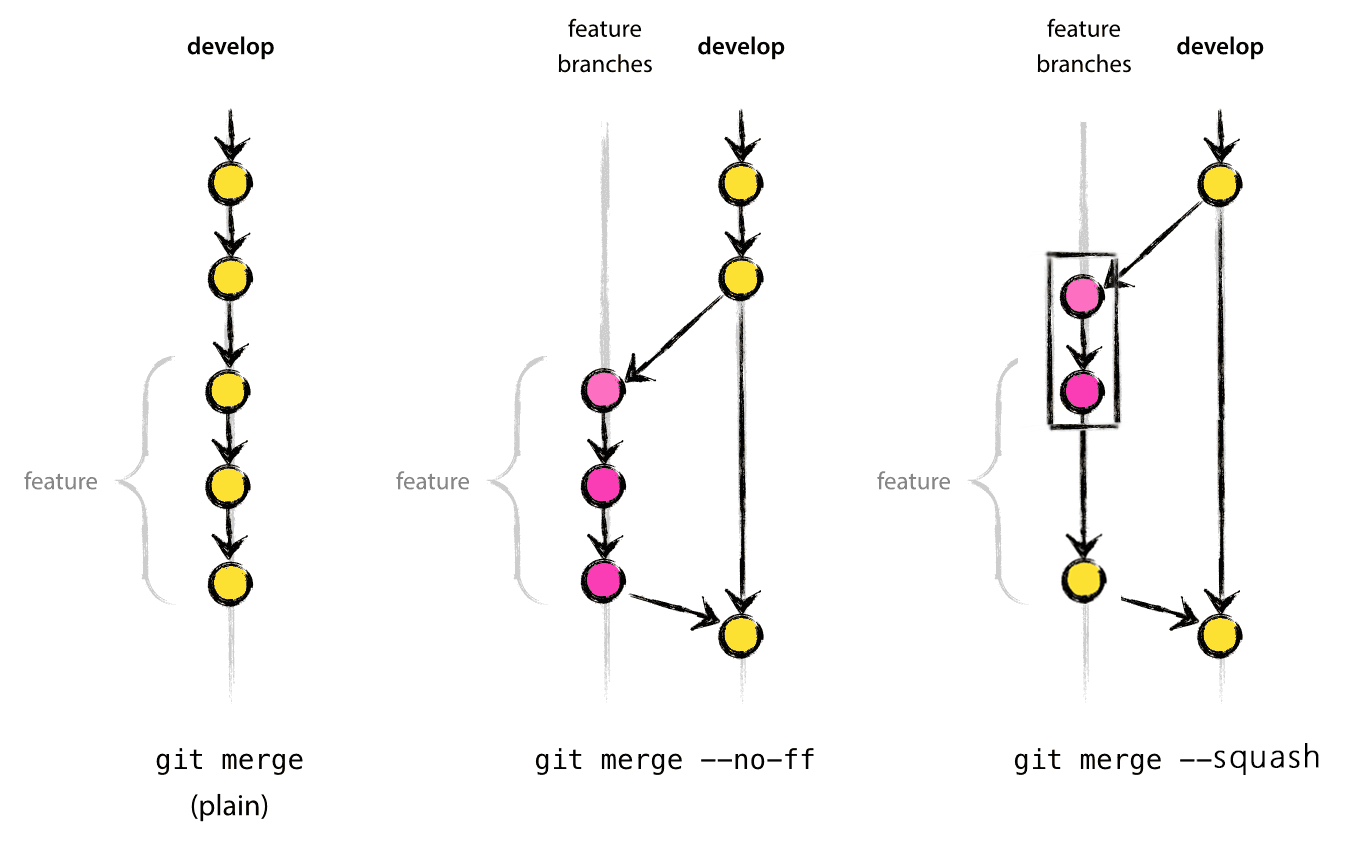
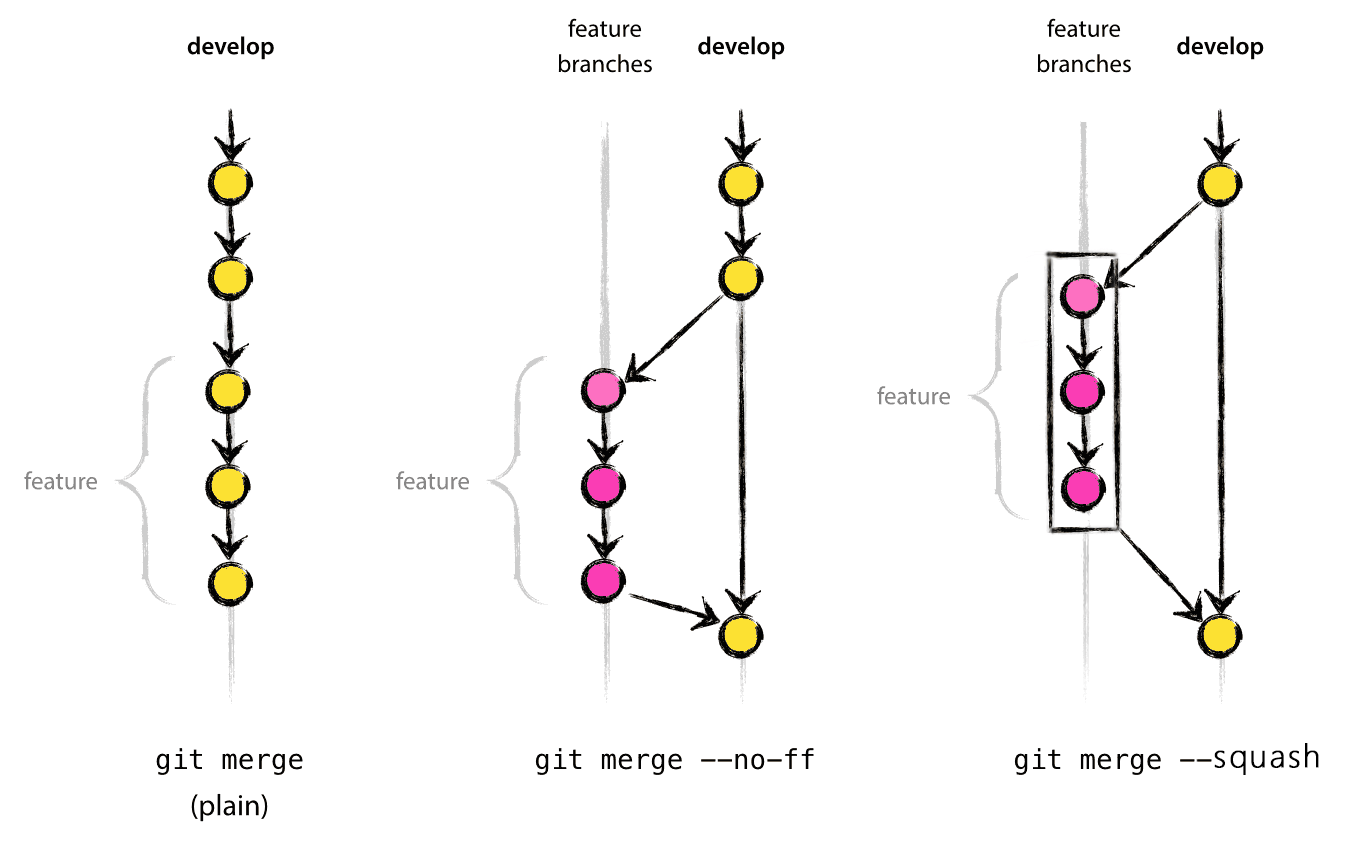
修改git笔记

Changed region(s): [[0.7709, 0.4917, 0.8943, 0.7376], [0.6476, 0.5532, 0.7401, 0.6761], [0.6476, 0.3688, 0.7401, 0.4917]]

diff --git a/版本控制/Git 相关总结.md b/版本控制/Git 相关总结.md
@@ -108,10 +108,6 @@ $ npm install xxx --registry=https://registry.npm.taobao.org
 
 ## Git 基础概念
 
-首先，工作区（Working Directory）、暂存区（Stage）和历史记录区（History）的交互，如下图所示：
-
-![](./images/git-work-flow.png)
-
 一张图解 Git：
 
 ![](./images/a-picture-to-understand-git.png)
@@ -158,7 +154,7 @@ Git Flow 具体流程详解：
 
 然后，release 这个分支会进行 CI 测试，如果有问题，就在这个分支进行修复。在修复所有问题前，不停地进行流程“发布->测试->修复->重新发布->重新测试”。
 
-3、发布版本，将 develop 分支合并到 master 分支。如图所示：
+3、发布版本，将代码合并到 master 分支。如图所示：
 
 ![](./images/git-flow-3.png)
 
@@ -412,7 +408,7 @@ Git Flow 具体流程详解：
   - `--soft`：修改历史记录
   - `--hard`：修改工作区、暂存区、历史记录
 
-  > 由于使用 `git reset` 会删除 commit 记录，因此我要在公共的分支（例如 develop 分支）上使用。
+  > 由于使用 `git reset` 会删除 commit 记录，因此不要在公共的分支（例如 develop 分支）上使用。
 
 - `git checkout` 可以将 HEAD 指针指向一个新的分支。
 - `git revert` 和 `git reset` 的目的一样，但是做法不同。`git revert` 会以创建新 commit 的方式来撤销 commit。这样会保留之前的提交历史，比较安全。
@@ -492,6 +488,10 @@ A — B — C — D — — — — — E
   参数作用如图：
 
   ![git merge arguments](./images/git-merge.png)
+
+  > - 默认（无参数）是 Fast-forward 模式，直接将 commit 追加到当前分支的末端。（提交历史仍是直线）
+  > - `--no-ff` 参数，保留所有 commit 信息，新建一个用于合并的 commit。（提交历史不再是直线）
+  > - `--squash` 参数，所有 commit 信息会在原来的分支保留，同时会合并到暂存区（stage），用户手动 `git commit` 后，最终合并为一个新的 commit。（提交历史仍是直线）
 
 - `git fetch origin <分支名>` 拉取远程分支（只拉取不合并）
 - `git pull origin <分支名>` 拉取远程分支（拉取并合并）
